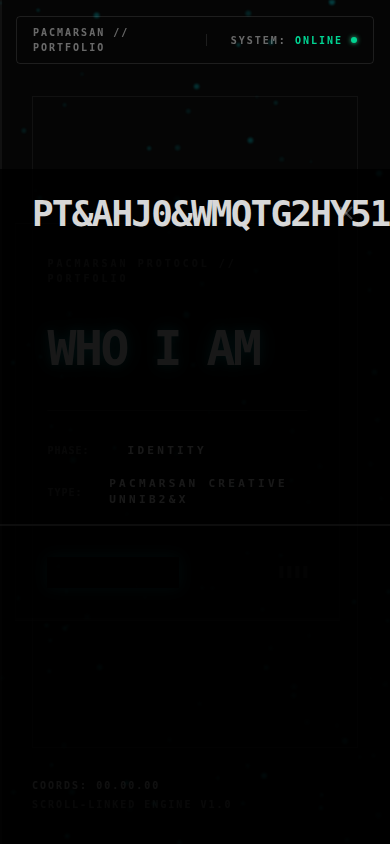
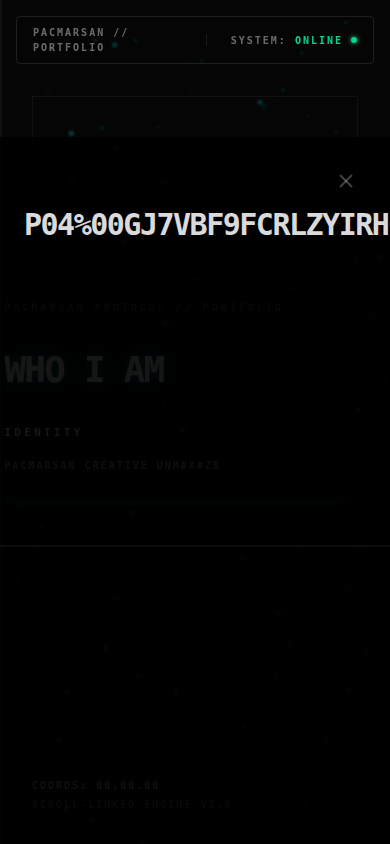
Refactor mobile layout for minimalist aesthetic and responsiveness
- Updated `App.tsx` to remove heavy desktop styling (borders, brackets) from the HUD on mobile, implementing a clean, centered layout with an "EXPLORE [PHASE]" button.
- Refactored `HeroIdentity.tsx` to use balanced `px-6` padding on mobile, fixing layout alignment issues and preventing text cramping.
- Standardized mobile padding (`px-6`, `pt-20`) across `BrandsArchive`, `WorldsArchive`, `ExperiencesArchive`, `ProductsArchive`, and `ContactsArchive` to ensure consistency and prevent overlap with fixed UI elements.
- Adjusted typography sizes for mobile readability.
- Verified changes with Playwright screenshots.

Changed region(s): [[0.0615, 0.2156, 1.0, 0.2773]]

diff --git a/App.tsx b/App.tsx
@@ -235,7 +235,7 @@ const App: React.FC = () => {
                 opacity: hudState.opacity, 
                 scale: hudState.scale,
               }}
-              className="fixed inset-0 pointer-events-none z-20 flex items-center justify-center lg:justify-start px-8 lg:px-24"
+              className="fixed inset-0 pointer-events-none z-20 flex items-center justify-center lg:justify-start px-6 lg:px-24"
             >
               {/* Dynamic Layout Container */}
               <div className="relative w-full max-w-[1400px] h-[600px] flex items-center">
@@ -250,13 +250,13 @@ const App: React.FC = () => {
                    }}
                    transition={{ duration: 0.5 }}
                 >
-                  <div className="hud-border bg-[#050505]/60 backdrop-blur-md p-8 lg:p-12 border-l-4 border-l-[var(--accent)] relative group overflow-hidden">
-                    <div className="absolute top-0 right-0 w-12 h-12 border-t border-r border-white/5" />
-                    <div className="absolute bottom-0 left-0 w-full h-[2px] bg-white/5" />
+                  <div className="lg:hud-border lg:bg-[#050505]/60 lg:backdrop-blur-md lg:p-12 lg:border-l-4 lg:border-l-[var(--accent)] relative group overflow-hidden">
+                    <div className="hidden lg:block absolute top-0 right-0 w-12 h-12 border-t border-r border-white/5" />
+                    <div className="hidden lg:block absolute bottom-0 left-0 w-full h-[2px] bg-white/5" />
                     
                     <div className="text-[10px] tracking-[0.3em] font-bold text-white/30 mb-8 flex items-center gap-4">
                       <span>PACMARSAN PROTOCOL // PORTFOLIO</span>
-                      <div className="flex-1 h-[1px] bg-white/5" />
+                      <div className="hidden lg:block flex-1 h-[1px] bg-white/5" />
                     </div>
 
                     <AnimatePresence mode="wait">
@@ -267,26 +267,26 @@ const App: React.FC = () => {
                         exit={{ opacity: 0 }}
                         transition={{ duration: 0.3 }}
                       >
-                        <h2 className="text-5xl lg:text-7xl font-bold tracking-tighter mb-8 glow-text leading-tight text-[var(--accent)]">
+                        <h2 className="text-4xl md:text-5xl lg:text-7xl font-bold tracking-tighter mb-4 lg:mb-8 glow-text leading-tight text-[var(--accent)]">
                           <TerminalText 
                             text={activePhase.name === 'hero' ? 'WHO I AM' : activePhase.name.toUpperCase()}
                           />
                         </h2>
                         
-                        <div className="space-y-4 border-t border-white/10 pt-8 mt-4">
-                          <div className="flex items-center gap-4">
-                            <span className="text-[10px] text-white/30 font-bold w-16 uppercase tracking-widest">Phase:</span>
+                        <div className="space-y-4 border-t border-white/10 pt-4 lg:pt-8 mt-4">
+                          <div className="flex flex-col lg:flex-row lg:items-center gap-1 lg:gap-4">
+                            <span className="text-[10px] text-white/30 font-bold w-16 uppercase tracking-widest hidden lg:block">Phase:</span>
                             <TerminalText 
                               text={activePhase.label} 
                               className="text-[11px] text-white font-bold tracking-[0.3em] uppercase"
                               delay={0.2}
                             />
                           </div>
-                          <div className="flex items-center gap-4">
-                            <span className="text-[10px] text-white/30 font-bold w-16 uppercase tracking-widest">Type:</span>
+                          <div className="flex flex-col lg:flex-row lg:items-center gap-1 lg:gap-4">
+                            <span className="text-[10px] text-white/30 font-bold w-16 uppercase tracking-widest hidden lg:block">Type:</span>
                             <TerminalText 
                               text={activePhase.subtext} 
-                              className="text-[11px] text-white font-bold tracking-[0.3em] uppercase"
+                              className="text-[10px] lg:text-[11px] text-white/60 lg:text-white font-bold tracking-[0.2em] lg:tracking-[0.3em] uppercase"
                               delay={0.4}
                             />
                           </div>
@@ -294,15 +294,15 @@ const App: React.FC = () => {
                       </motion.div>
                     </AnimatePresence>
 
-                    <div className="mt-12 flex items-center gap-4">
+                    <div className="mt-8 lg:mt-12 flex items-center gap-4">
                       <button
                         onClick={() => setExpandedPhase(activePhase.name)}
-                        className="px-6 py-2 bg-[var(--accent)] text-black text-[10px] font-bold tracking-widest uppercase hover:brightness-110 transition-all cursor-pointer shadow-[0_0_15px_var(--accent-glow)]"
+                        className="px-6 py-3 lg:py-2 bg-[var(--accent)] text-black text-[10px] font-bold tracking-widest uppercase hover:brightness-110 transition-all cursor-pointer shadow-[0_0_15px_var(--accent-glow)] w-full lg:w-auto"
                       >
                         EXPLORE {activePhase.name.toUpperCase()}
                       </button>
-                      <div className="flex-1" />
-                      <div className="flex items-center gap-1">
+                      <div className="hidden lg:block flex-1" />
+                      <div className="hidden lg:flex items-center gap-1">
                         {[...Array(4)].map((_, i) => (
                           <div key={i} className="w-1 h-3 bg-white/10" />
                         ))}

diff --git a/components/HeroIdentity.tsx b/components/HeroIdentity.tsx
@@ -27,7 +27,7 @@ const SectionBody: React.FC<{ children: React.ReactNode; delay?: number }> = ({ 
 
 const HeroIdentity: React.FC<{ onClose: () => void }> = ({ onClose }) => {
   return (
-    <div className="h-full w-full flex flex-col justify-center relative pl-8 lg:pl-16 pr-12 lg:pr-24 overflow-y-auto lg:overflow-visible">
+    <div className="h-full w-full flex flex-col justify-center relative px-6 lg:pl-16 lg:pr-24 overflow-y-auto lg:overflow-visible pt-20 lg:pt-0 pb-20 lg:pb-0">
       {/* Background Decor */}
       <div className="absolute top-0 right-0 w-64 h-64 bg-[var(--accent)] rounded-full blur-[100px] opacity-10 pointer-events-none" />
 
@@ -43,18 +43,18 @@ const HeroIdentity: React.FC<{ onClose: () => void }> = ({ onClose }) => {
         </svg>
       </button>
 
-      <div className="space-y-10 relative z-10 max-w-2xl">
+      <div className="space-y-8 lg:space-y-10 relative z-10 max-w-2xl">
 
         {/* Name & Title */}
         <div>
-          <h1 className="text-4xl lg:text-5xl font-bold tracking-tighter text-white mb-2">
+          <h1 className="text-3xl lg:text-5xl font-bold tracking-tighter text-white mb-2 leading-tight">
             <TerminalText text="Pascal Mario Alexander Onwuasoanya" delay={0} />
           </h1>
           <motion.div
             initial={{ opacity: 0 }}
             animate={{ opacity: 1 }}
             transition={{ delay: 0.8 }}
-            className="text-sm tracking-[0.3em] text-[var(--accent)] uppercase font-bold"
+            className="text-xs lg:text-sm tracking-[0.2em] lg:tracking-[0.3em] text-[var(--accent)] uppercase font-bold leading-relaxed"
           >
             Creative Architect · World Builder · Brand Master
           </motion.div>

diff --git a/components/ExperiencesArchive.tsx b/components/ExperiencesArchive.tsx
@@ -482,7 +482,7 @@ const ExperiencesArchive: React.FC<{ onClose: () => void }> = ({ onClose }) => {
   const [selectedItem, setSelectedItem] = useState<TimelineNodeData | CertificateData | null>(null);
 
   return (
-    <div className="h-full w-full flex flex-col relative pl-8 lg:pl-16 pr-12 lg:pr-24 overflow-y-auto lg:overflow-hidden">
+    <div className="h-full w-full flex flex-col relative px-6 lg:pl-16 lg:pr-24 overflow-y-auto lg:overflow-hidden pt-20 lg:pt-0">
         {/* Background Decor */}
         <div className="absolute top-0 right-0 w-96 h-96 bg-[#00ff9c] rounded-full blur-[120px] opacity-5 pointer-events-none" />
 
@@ -490,7 +490,7 @@ const ExperiencesArchive: React.FC<{ onClose: () => void }> = ({ onClose }) => {
         {!selectedItem && (
             <button
                 onClick={onClose}
-                className="absolute top-0 right-8 lg:right-12 p-4 text-white/30 hover:text-[var(--accent)] transition-colors z-20"
+                className="absolute top-4 right-4 lg:top-0 lg:right-12 p-4 text-white/30 hover:text-[var(--accent)] transition-colors z-20"
                 aria-label="Close Archive"
             >
                 <svg viewBox="0 0 24 24" width="24" height="24" stroke="currentColor" strokeWidth="2" fill="none">

diff --git a/components/BrandsArchive.tsx b/components/BrandsArchive.tsx
@@ -230,7 +230,7 @@ const BrandsArchive: React.FC<BrandsArchiveProps> = ({ onClose }) => {
     const [selectedCard, setSelectedCard] = useState<CardData | null>(null);
 
     return (
-        <div className="h-full w-full flex flex-col relative pl-8 lg:pl-16 pr-12 lg:pr-24 overflow-hidden">
+        <div className="h-full w-full flex flex-col relative px-6 lg:pl-16 lg:pr-24 overflow-hidden pt-20 lg:pt-0">
              {/* Background Decor */}
              <div className="absolute bottom-0 right-0 w-96 h-96 bg-[var(--accent)] rounded-full blur-[150px] opacity-5 pointer-events-none" />
 
@@ -238,7 +238,7 @@ const BrandsArchive: React.FC<BrandsArchiveProps> = ({ onClose }) => {
             {!selectedCard && (
                 <button
                     onClick={onClose}
-                    className="absolute top-0 right-8 lg:right-12 p-4 text-white/30 hover:text-[var(--accent)] transition-colors z-20"
+                    className="absolute top-4 right-4 lg:top-0 lg:right-12 p-4 text-white/30 hover:text-[var(--accent)] transition-colors z-20"
                     aria-label="Close Archive"
                 >
                     <svg viewBox="0 0 24 24" width="24" height="24" stroke="currentColor" strokeWidth="2" fill="none">

diff --git a/components/ContactsArchive.tsx b/components/ContactsArchive.tsx
@@ -178,14 +178,14 @@ const ContactsArchive: React.FC<{ onClose: () => void }> = ({ onClose }) => {
   const shouldReduceMotion = useReducedMotion();
 
   return (
-    <div className="h-full w-full flex flex-col relative pl-4 lg:pl-16 pr-8 lg:pr-24 overflow-y-auto custom-scrollbar pt-20 lg:pt-0 justify-center">
+    <div className="h-full w-full flex flex-col relative px-6 lg:pl-16 lg:pr-24 overflow-y-auto custom-scrollbar pt-20 lg:pt-0 justify-center">
       {/* Background Decor */}
       <div className="absolute top-0 right-0 w-96 h-96 bg-[#ff2a6d] rounded-full blur-[150px] opacity-10 pointer-events-none" />
 
       {/* Close Button */}
       <button
         onClick={onClose}
-        className="fixed lg:absolute top-4 right-4 lg:top-0 lg:right-12 p-4 text-white/30 hover:text-[var(--accent)] transition-colors z-50 bg-[#050505]/80 lg:bg-transparent backdrop-blur-md lg:backdrop-blur-none rounded-full lg:rounded-none"
+        className="absolute top-4 right-4 lg:top-0 lg:right-12 p-4 text-white/30 hover:text-[var(--accent)] transition-colors z-50 lg:bg-transparent"
         aria-label="Close Contacts"
       >
         <svg viewBox="0 0 24 24" width="24" height="24" stroke="currentColor" strokeWidth="2" fill="none">

diff --git a/components/WorldsArchive.tsx b/components/WorldsArchive.tsx
@@ -341,7 +341,7 @@ const WorldsArchive: React.FC<{ onClose: () => void }> = ({ onClose }) => {
   const [selectedBook, setSelectedBook] = useState<BookData | null>(null);
 
   return (
-    <div className="h-full w-full flex flex-col relative pl-8 lg:pl-16 pr-12 lg:pr-24 overflow-y-auto lg:overflow-hidden">
+    <div className="h-full w-full flex flex-col relative px-6 lg:pl-16 lg:pr-24 overflow-y-auto lg:overflow-hidden pt-20 lg:pt-0">
       {/* Background Decor */}
       <div className="absolute top-0 right-0 w-96 h-96 bg-[#7c5cff] rounded-full blur-[120px] opacity-5 pointer-events-none" />
 
@@ -349,7 +349,7 @@ const WorldsArchive: React.FC<{ onClose: () => void }> = ({ onClose }) => {
       {!selectedBook && (
         <button
             onClick={onClose}
-            className="absolute top-0 right-8 lg:right-12 p-4 text-white/30 hover:text-[var(--accent)] transition-colors z-20"
+            className="absolute top-4 right-4 lg:top-0 lg:right-12 p-4 text-white/30 hover:text-[var(--accent)] transition-colors z-20"
             aria-label="Close Archive"
         >
             <svg viewBox="0 0 24 24" width="24" height="24" stroke="currentColor" strokeWidth="2" fill="none">

diff --git a/components/ProductsArchive.tsx b/components/ProductsArchive.tsx
@@ -216,7 +216,7 @@ const ProductCard: React.FC<{ product: ProductData; index: number }> = ({ produc
 
 const ProductsArchive: React.FC<{ onClose: () => void }> = ({ onClose }) => {
   return (
-    <div className="h-full w-full flex flex-col relative pl-4 lg:pl-12 overflow-hidden">
+    <div className="h-full w-full flex flex-col relative px-6 lg:pl-12 overflow-hidden">
       {/* Background Decor */}
       <div className="absolute top-0 right-0 w-96 h-96 bg-[#ffb703] rounded-full blur-[150px] opacity-5 pointer-events-none" />
 
